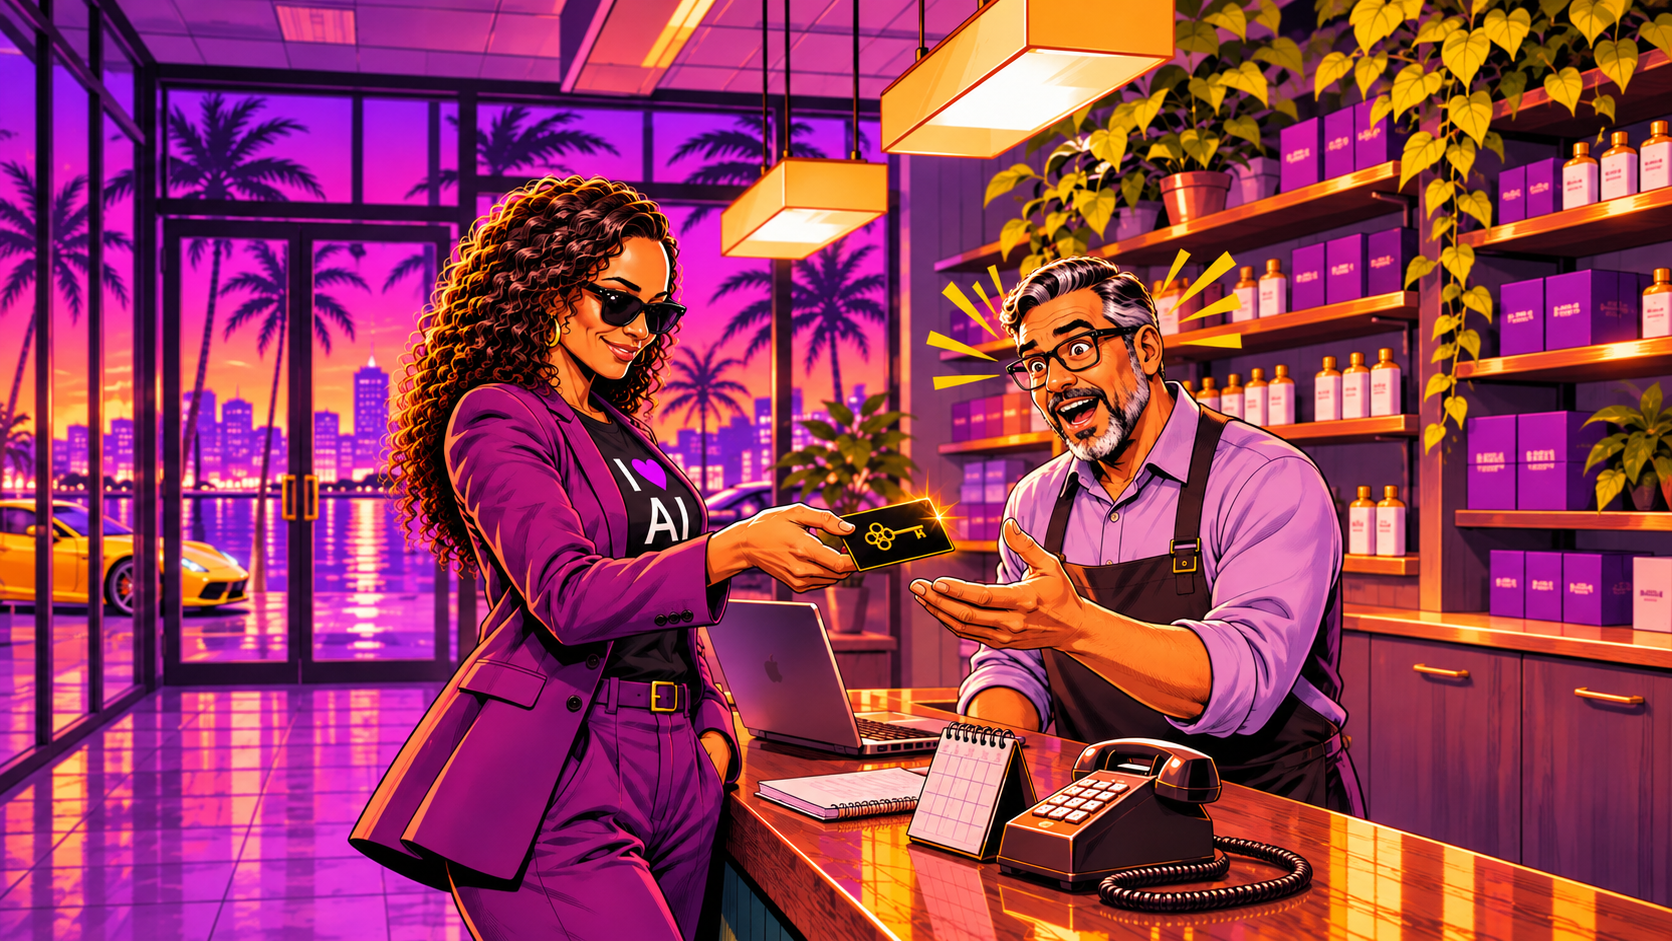
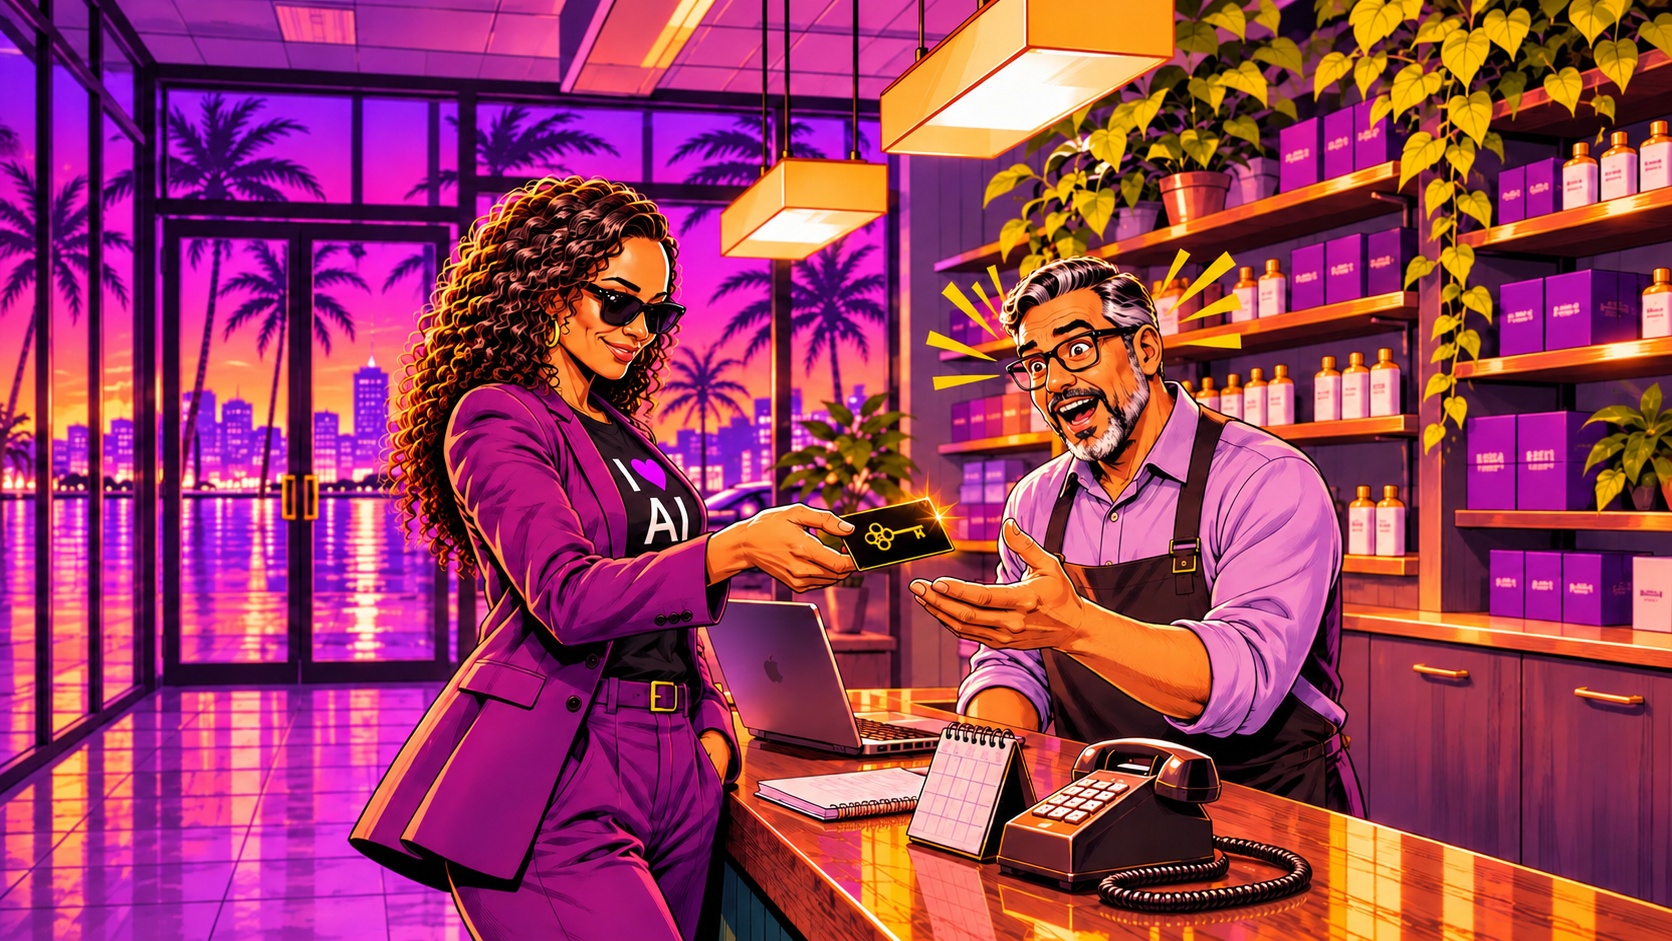
16:9: corrected S11, S12, S13 keyframes (v1 retired)
Claude-Session: https://claude.ai/code/session_01Qa5QbNCaa6ypvEwEXEt5u1

diff --git a/video-projects/unlocking-ai-miami-takeover/widescreen/PLAN_16x9_EP01.md b/video-projects/unlocking-ai-miami-takeover/widescreen/PLAN_16x9_EP01.md
@@ -15,9 +15,9 @@ The audio is locked: VO, music, SFX and timings are identical to `EP01_rachel_9x
 | S08 | OK | The RACHEL name tag is added in the edit |
 | S09 | OK | Lip sync, large face |
 | S10 | OK | VO only |
-| S11 | FIX? | The car seen through the window is a different modern supercar, not the yellow Testarossa-style car |
-| S12 | FIX? | The car seen through the door is a yellow sedan/taxi, not the hero car |
-| S13 | **FIX** | The shirt reads "I ♥ AI I" (garbled), and she is large and in focus |
+| S11 | OK (v2) | Wrong car removed; only a dark car silhouette is left |
+| S12 | OK (v2) | Wrong car removed |
+| S13 | OK (v2) | Shirt fixed to "I ♥ AI"; v1 kept as S13_v1_retired.png |
 | S14A | OK | BBY TIGR is clean |
 | S13C | OK* | The tiny plate is gibberish and the taillights are round. It shrinks as the car drives away; acceptable |
 
@@ -61,4 +61,4 @@ The 1080p native option (grok at 8/s) would add about 147 credits. It isn't reco
 2. S05, 4s, plus lip sync (18 + about 15). This tests lip sync on a small face.
 3. S07, 4s, plus lip sync (18 + about 15). This tests lip sync with two faces in frame.
 
-S13 (the car entry, 27) waits until the fixed S13 keyframe arrives.
+S13 (the car entry, 27) can now run in batch 2.
